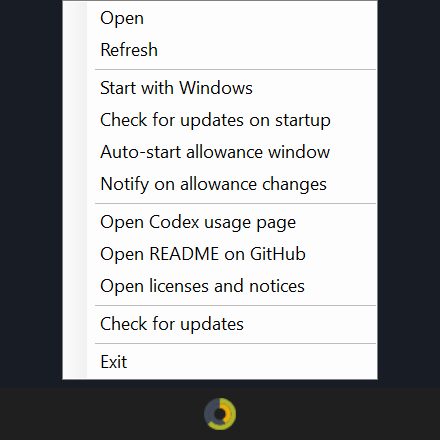
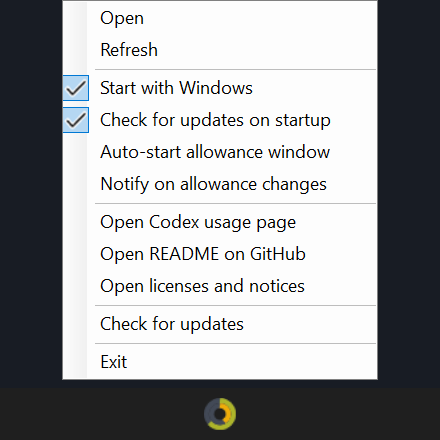
Show enabled defaults in the context menu screenshot (#92)
- Mark startup and automatic updates as checked in the screenshot menu

Changed region(s): [[0.1182, 0.1477, 0.2068, 0.325]]

diff --git a/src/CodexUsageTray/UI/WinFormsApplicationShell.cs b/src/CodexUsageTray/UI/WinFormsApplicationShell.cs
@@ -234,8 +234,8 @@ internal sealed class WinFormsApplicationShell :
 
     internal static ContextMenuStrip CreateContextMenuForScreenshot()
     {
-        var startup = new ToolStripMenuItem("Start with Windows") { CheckOnClick = true };
-        var automaticUpdate = new ToolStripMenuItem(AutomaticUpdateMenuText) { CheckOnClick = true };
+        var startup = new ToolStripMenuItem("Start with Windows") { Checked = true, CheckOnClick = true };
+        var automaticUpdate = new ToolStripMenuItem(AutomaticUpdateMenuText) { Checked = true, CheckOnClick = true };
         var allowanceActivation = new ToolStripMenuItem(AllowanceActivationMenuText) { CheckOnClick = true };
         var allowanceNotifications = new ToolStripMenuItem(AllowanceNotificationsMenuText) { CheckOnClick = true };
         var update = new ToolStripMenuItem(CheckForUpdatesMenuText);
